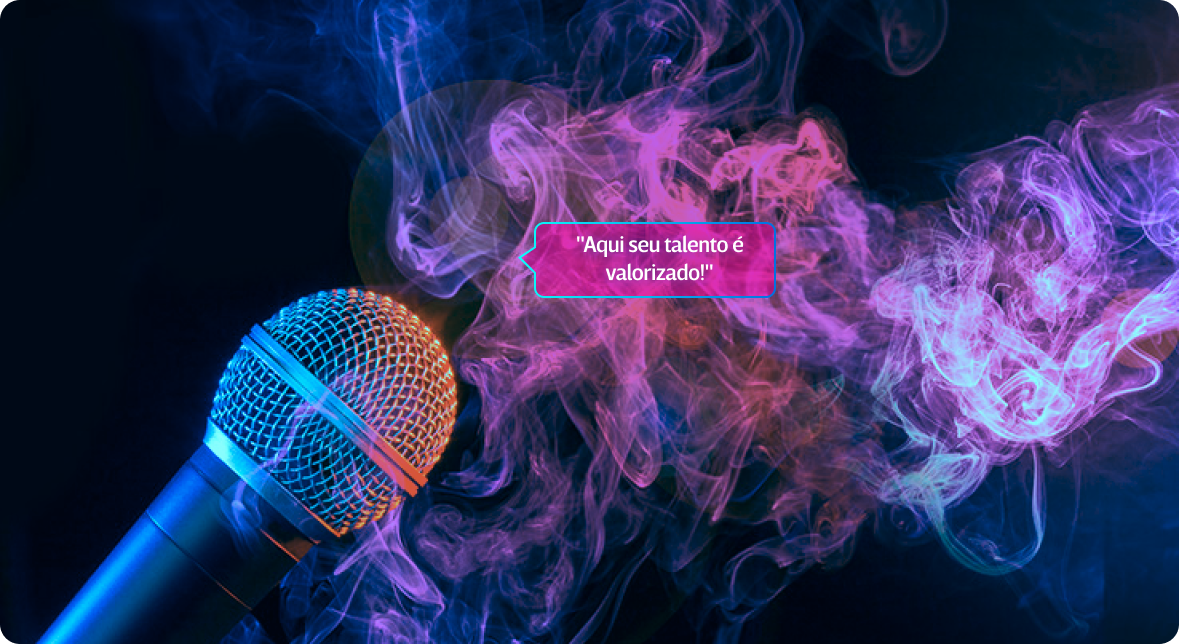
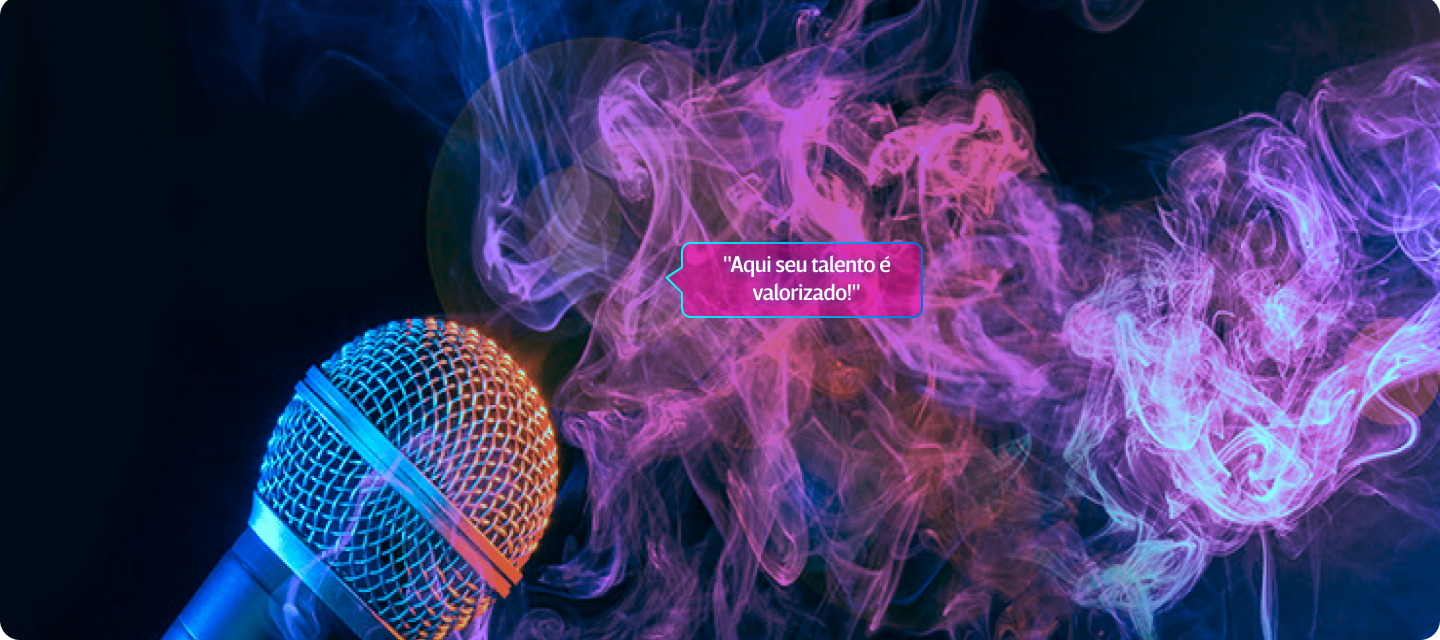
Atualizando footer home

diff --git a/index.html b/index.html
@@ -60,18 +60,6 @@
                     oportunidade.</p>
             </div>
         </section>
-        <section class="section-3">
-            <div>
-                <div class="fundo_microfone"></div>
-                <div class="patrocinios">
-                    <img src="./img/home/amazon-music.png" alt="">
-                    <img src="./img/home/apple-music.png" alt="">
-                    <img src="./img/home/spotify.png" alt="">
-                    <img src="./img/home/deezer.png" alt="">
-                    <img src="./img/home/tunein.png" alt="">
-                </div>
-            </div>
-        </section>
 
         <section class="section-4">
             <div class="borda">
@@ -187,17 +175,21 @@
                 <span>Comunicados</span>
             </div>
             <div>
-                <h5>Pagamento</h5>
-                <span>Cartões de crédito</span>
-                <span>Cartões de débito</span>
-                <span>Boleto</span>
-                <span>Pix</span>
-            </div>
-            <div>
                 <h5>Deixo-nos ajudar você</h5>
                 <span>Sua conta</span>
                 <span>Termos de contrato</span>
-                <span>Contato</span>
+                <span>FAQ</span>
+                <span>Suporte</span>
+            </div>
+            <div>
+                <h5>Contatos</h5>
+                <div class="redes">
+                    <img src="./img/home/face.png" alt="" />
+                    <img src="./img/home/insta.png" alt="" />
+                    <img src="./img/home/twitter.png" alt="" />
+                </div>
+                <br>
+                <span>E-mail: techninjas@gmail.com</span>
             </div>
         </div>
         <div class="fim-footer">

diff --git a/css/index.css b/css/index.css
@@ -6,6 +6,7 @@
 
 body {
     font-family: "Alef";
+    background-color: #141822;
 }
 
 a {
@@ -238,40 +239,10 @@ main {
     width: 25%;
 }
 
-.section-3 {
-    width: 100%;
-    background-color: #1f2532;
-}
-
-.section-3 > div {
-    width: 80%;
-    margin: 0 auto;
-}
-
-.section-3 .fundo_microfone {
-    background-image: url("../img/home/fundo_microfone.png");
-    width: 100%;
-    height: 450px;
-    background-size: cover;
-    border-radius: 20px;
-    margin-bottom: 25px;
-}
-
-.section-3 .patrocinios {
-    width: 100%;
-    display: flex;
-    justify-content: space-around;
-}
-
-.section-3 .patrocinios img {
-    width: 100px;
-    height: 100%;
-}
-
 .section-4 {
     width: 100%;
     background-color: #1f2532;
-    padding: 75px 0 40px 0;
+    padding: 0px 0 40px 0;
 }
 
 .section-4 .borda {
@@ -411,8 +382,11 @@ main {
 .section-6 {
     width: 100%;
     height: 500px;
-    background-image: url(../img/home/show.png);
+    background-image: url(../img/home/fundo_microfone.png);
     background-size: cover;
+    /* margin-top: -50px; */
+    position: relative;
+    z-index: -1;
 }
 
 footer {
@@ -486,4 +460,16 @@ footer .navegacao div h5 {
 
 .fim-footer span {
     font-size: 15px;
+}
+
+.redes {
+    width: 150px;
+    display: flex;
+    flex-direction: row !important;
+    justify-content: space-between;
+    padding-top: 10px;
+}
+
+.redes img {
+    width: 30px;
 }
